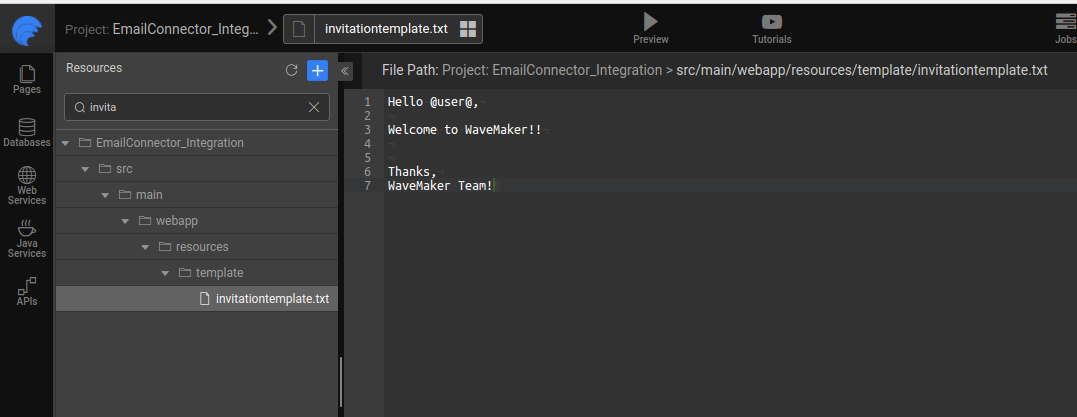
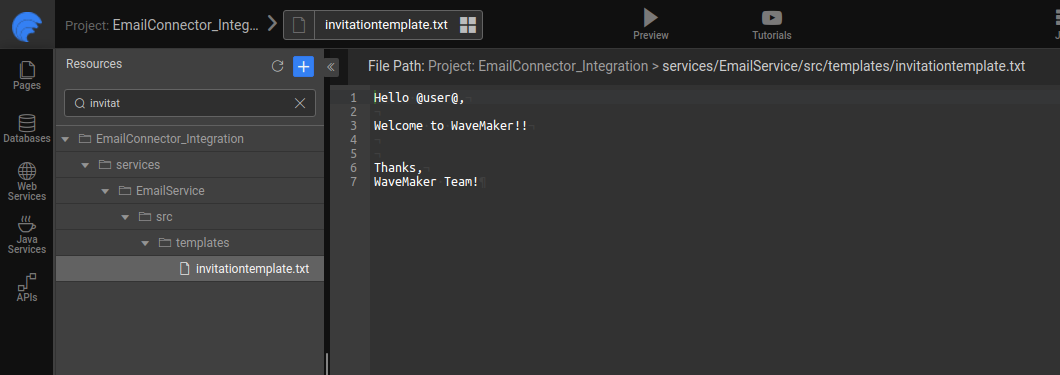
Updated email template location to service src folder

diff --git a/learn/how-tos/generate-pdf-file-using-jasper-reports.md b/learn/how-tos/generate-pdf-file-using-jasper-reports.md
@@ -26,7 +26,7 @@ id: ""
 
 ### Example 1: Generating Jasper Report from a imported DataBase:
 
-  1. Build your report using [Jasper Studio](https://community.jaspersoft.com/), which enables you to build and customize look and feel of the report. Once you design the report export the reportxml(.jrxml) and import into WaveMaker project using [Import Resource](/learn/app-development/services/3rd-party-libraries) to the **${Service}/src/** folder
+  1. Build your report using [Jasper Studio](https://community.jaspersoft.com/), which enables you to build and customize look and feel of the report. Once you design the report export the reportxml(.jrxml) and import into WaveMaker project using [Import Resource](/learn/app-development/services/3rd-party-libraries) to the `${ServiceName}/src/` folder
     
   1. The following sample report jrxml is provided for your reference which loads the data from hrdb **Employee** table and generates the report.
 

diff --git a/learn/how-tos/sending-email-using-java-service.md b/learn/how-tos/sending-email-using-java-service.md
@@ -118,7 +118,7 @@ Send email with template
     }
 ```
     
-If we want use this method we should have a **template** with name **invitationtemplate.txt** in project resources folder.
+If we want use this method we should have a **template** with name **invitationtemplate.txt** in project services `${ServiceName}/src/templates`  folder.
     [![invitaion email template](/learn/assets/emailTemplateFileLocation.png)](/learn/assets/emailTemplateFileLocation.png)
     [![invitaion email template with content](/learn/assets/emailTemplate.png)](/learn/assets/emailTemplate.png)
     
